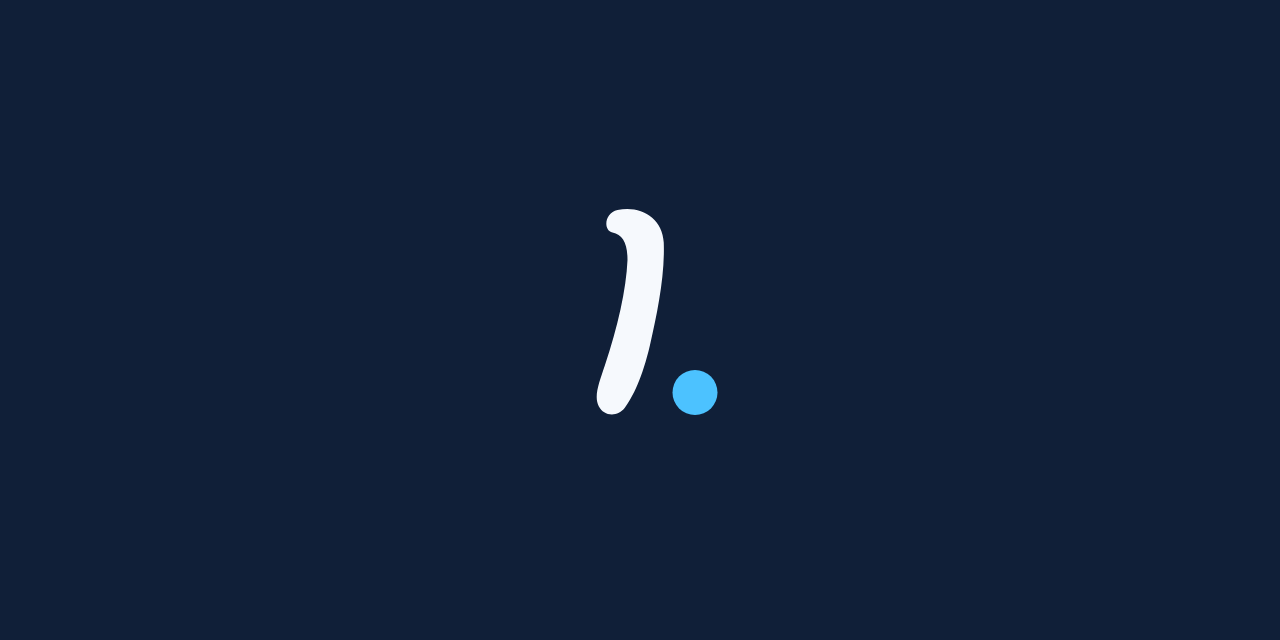
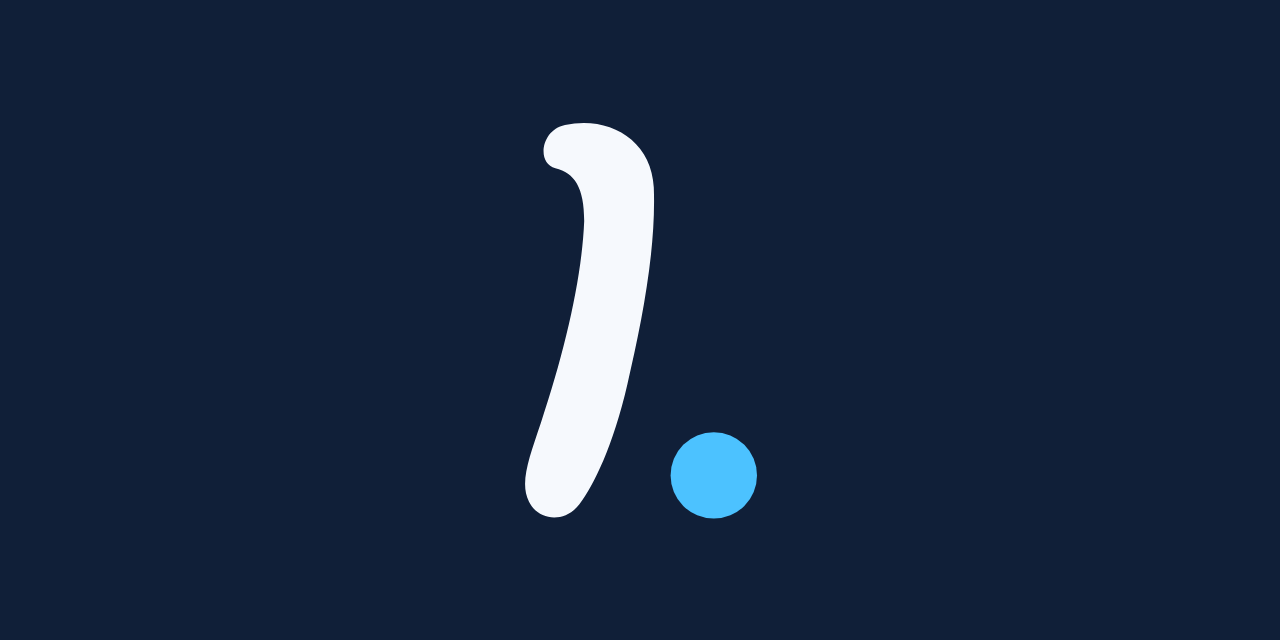
fix(assets): make the social preview readable at card size
The mark was scaled 1.25, which left only 122x206 px of ink in a
1280x640 card - 9.5% of the width. Against a #101F38 field that
matches Discord's and X's dark themes, the card reads as blank.

Centre on the ink rather than the 256 box: the mark sits low and
right inside its own box, so box-centring is visibly off.

Changed region(s): [[0.4062, 0.1875, 0.5938, 0.8125]]

diff --git a/CHANGELOG.md b/CHANGELOG.md
@@ -274,6 +274,11 @@
 - `tools/render-icons.ps1` **渲染前會先刪掉目標檔**。它靠「檔案在不在」判斷成功,
   而目標檔幾乎一定是上一次跑留下來的 —— 瀏覽器整個沒跑起來也會一路綠燈,
   而且產出的是上一版的圖示。訊息也會帶上瀏覽器的結束碼。
+- **GitHub social preview 的標記放大到近兩倍**(`scale(1.25)` → `scale(2.4)`)。
+  原本量出來的實際墨跡只有 122×206 px,佔卡片寬度 9.5% —— 而底色 `#101F38` 跟
+  Discord / X 的深色主題幾乎一樣,貼出去遠看就是一塊空的深藍長方形,像根本沒有圖。
+  現在是 232×396 px(佔高 62%)。順帶修掉一個偏移:標記在自己的 256 框裡本來就偏右下,
+  照框置中看得出來歪,改成對墨跡的中心置中。
 - `tools/deploy.ps1` 補上 `cmdpal-ui.ps1` 早就有的那道守門:一台機器上出現兩個同名
   Inkling 套件時直接中止。`Get-AppxPackage` 回陣列的話,底下每一個 `.InstallLocation`
   比對都不會相等,於是每次部署都先移除再註冊,而「移除的是哪一個」不確定。
